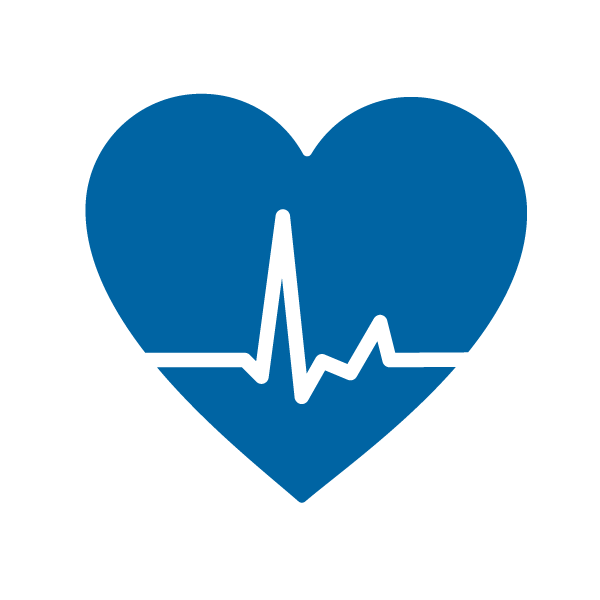
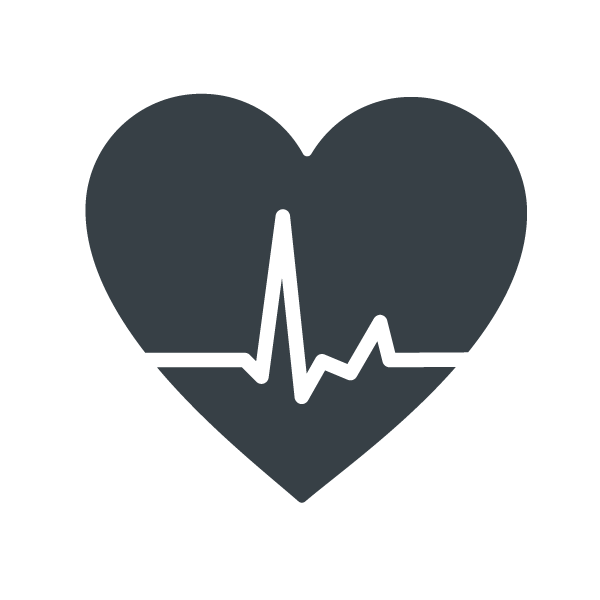
text color updated

diff --git a/doc/template.tex b/doc/template.tex
@@ -116,12 +116,15 @@ bibliography=totocnumbered]{scrartcl}
 
 % Page colors
 \definecolor{PrimaryColor}{HTML}{CDDC39}
+\definecolor{SecondaryColor}{HTML}{374046}
 
 \usepackage{afterpage}
 \usepackage{xcolor}
 \usepackage{sectsty}
 \sectionfont{\color{PrimaryColor}}
-
+\subsectionfont{\color{SecondaryColor}}
+\subsubsectionfont{\color{SecondaryColor}}
+\color{SecondaryColor}
 
 \lstdefinestyle{eclipse-style}{
 	language=Java,

diff --git a/doc/front.tex b/doc/front.tex
@@ -21,12 +21,15 @@
 \date{\today}
 \maketitle
 
-%TODO add front image
 \pagecolor{PrimaryColor}\afterpage{\nopagecolor}
 
 \begin{center}
 	\includegraphics[width=0.7\linewidth]{images/front}
 \end{center}
+
+
+\color{black}
+
 
 % Table of contents
 \tableofcontents
